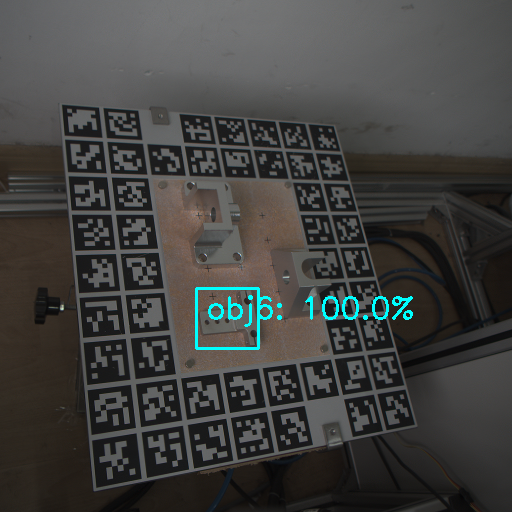
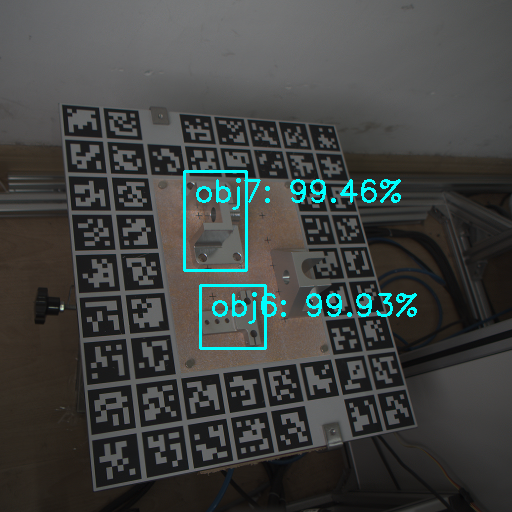
最新实验

Changed region(s): [[0.3438, 0.3125, 0.5625, 0.6875], [0.5938, 0.5625, 0.8125, 0.625], [0.5625, 0.3438, 0.7812, 0.4062]]

diff --git a/constants/train_constant.py b/constants/train_constant.py
@@ -7,7 +7,7 @@ class TrainConstant:
     now = datetime.datetime.now()
     date_time = now.strftime("%Y-%m-%d %H:%M:%S")
 
-    num_classes = 2  # 物体种类 + 1 (因为包含了背景)
+    num_classes = 3  # 物体种类 + 1 (因为包含了背景)
 
     root_path = "/home/ubuntu/user/zhanghaozheng/Deformable-DETR-main"
 
@@ -18,5 +18,5 @@ class TrainConstant:
 
     output_path = os.path.join(root_path, "Deformable-DETR-main-repo", "train_result", "class%d" % num_classes, date_time)
 
-    detect_model_path = os.path.join(root_path, "Deformable-DETR-main-repo", "train_result", "class%d" % num_classes, "2024-10-18 11:15:39", "checkpoint0349.pth")
+    detect_model_path = os.path.join(root_path, "Deformable-DETR-main-repo", "train_result", "class%d" % num_classes, "2024-11-01 19:59:00", "checkpoint0499.pth")
     test_images_path = os.path.join(root_path, "test_images")

diff --git a/test_detect.py b/test_detect.py
@@ -28,7 +28,7 @@ transform = T.Compose([
 def plot_result(pil_img, prob, boxes, save_name=None, imshow=False, imwrite=True):
     opencvImage = cv2.cvtColor(np.array(pil_img), cv2.COLOR_RGB2BGR)
     # LABEL = ['obj37', 'obj6', 'obj20', 'obj12', 'obj7', 'obj8']
-    LABEL = ['obj6']
+    LABEL = ['obj6', 'obj7']
 
     for p, (xmin, ymin, xmax, ymax) in zip(prob, boxes):
         cl = p.argmax()
